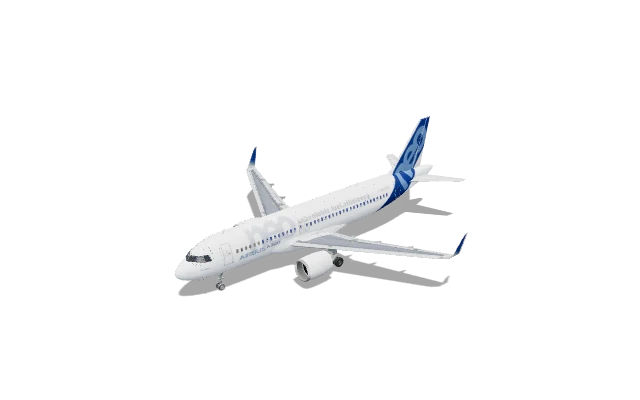
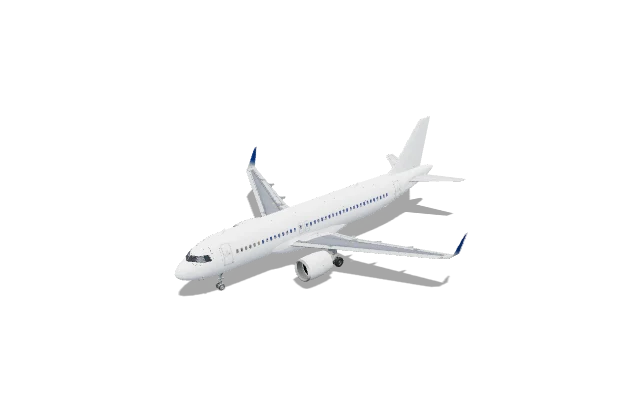
Neutral liveries: the A320neo wears the package's blank livery, the 787 and 747 have their maker's colors and lettering painted white; the Tu-154M states the license of the drawing it was measured from

Changed region(s): [[0.5938, 0.3, 0.6875, 0.51], [0.375, 0.57, 0.4688, 0.66], [0.5, 0.51, 0.5312, 0.54]]

diff --git a/scripts/whiten-livery.js b/scripts/whiten-livery.js
@@ -1,0 +1,24 @@
+// Paint a house livery neutral: every strongly colored pixel (the maker's color, its logo and
+// lettering) becomes white, shaded as the original was, so panel lines and windows stay.
+// Usage: node scripts/whiten-livery.js <in.png> <out.png> [min color spread, default 22] [light level]
+import { readFileSync, writeFileSync } from 'node:fs';
+import { readPNG, writePNG } from './reference/png.js';
+
+const [inp, out, spreadArg, lightArg] = process.argv.slice(2);
+// Optionally every light pixel too (lettering anti-aliased in gray on a white body): at or above this level.
+const light = lightArg ? Number(lightArg) : Infinity;
+if (!inp || !out) { console.error('usage: node scripts/whiten-livery.js <in.png> <out.png> [spread]'); process.exit(1); }
+const min = Number(spreadArg ?? 22);
+const img = readPNG(readFileSync(inp));
+const d = img.data;
+let n = 0;
+for (let k = 0; k < img.width * img.height; k++) {
+  const r = d[k * 4], g = d[k * 4 + 1], b = d[k * 4 + 2];
+  if (Math.max(r, g, b) - Math.min(r, g, b) < min && Math.min(r, g, b) < light) continue;
+  // One flat white: shading kept from the paint would leave the lettering faintly readable.
+  const v = 240;
+  d[k * 4] = v; d[k * 4 + 1] = v; d[k * 4 + 2] = Math.min(255, v + 2);
+  n++;
+}
+writeFileSync(out, writePNG(img));
+console.log(`${n} colored pixels painted white (${((n / (img.width * img.height)) * 100).toFixed(1)}%)`);
